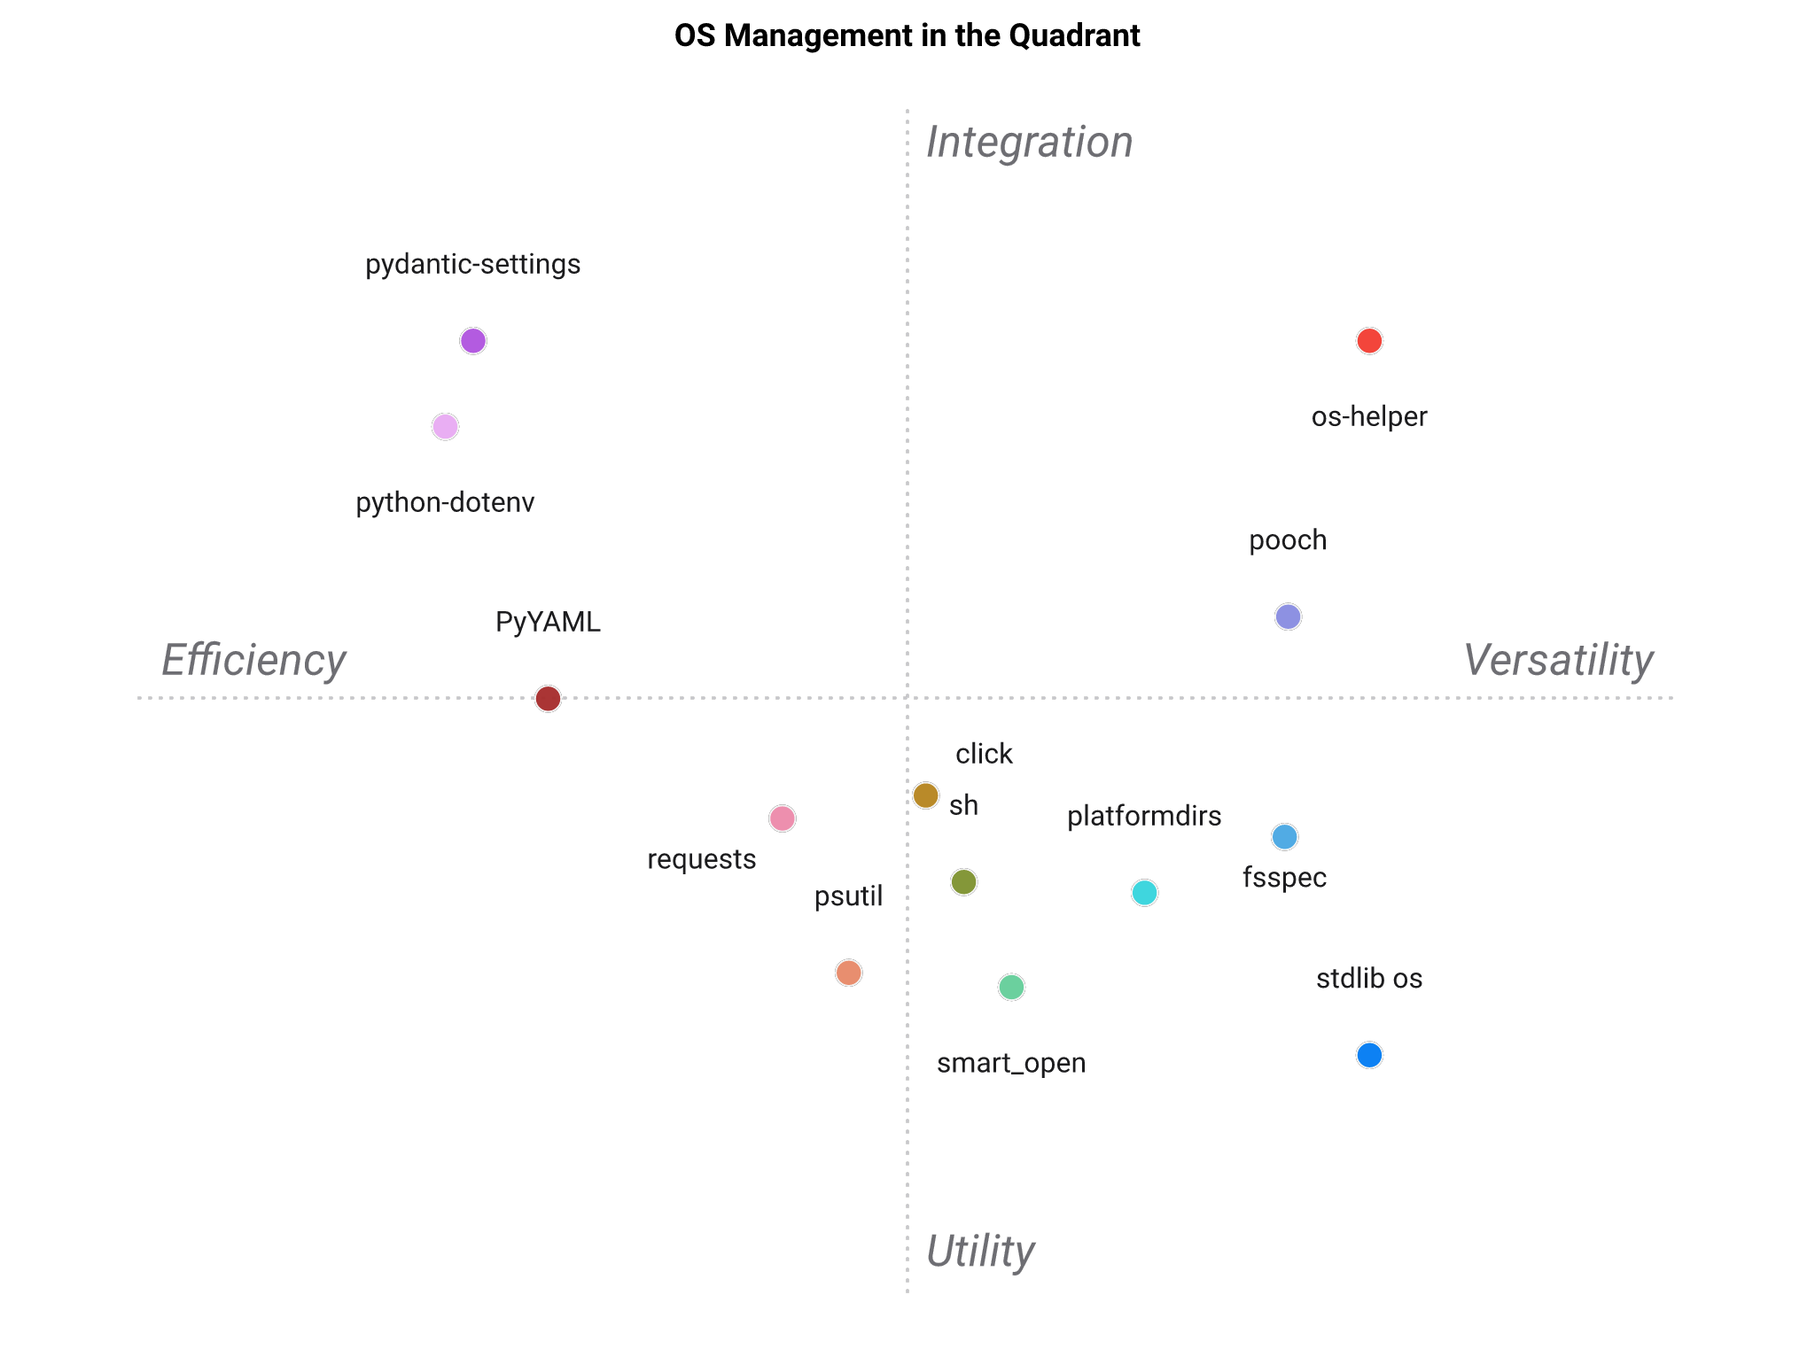
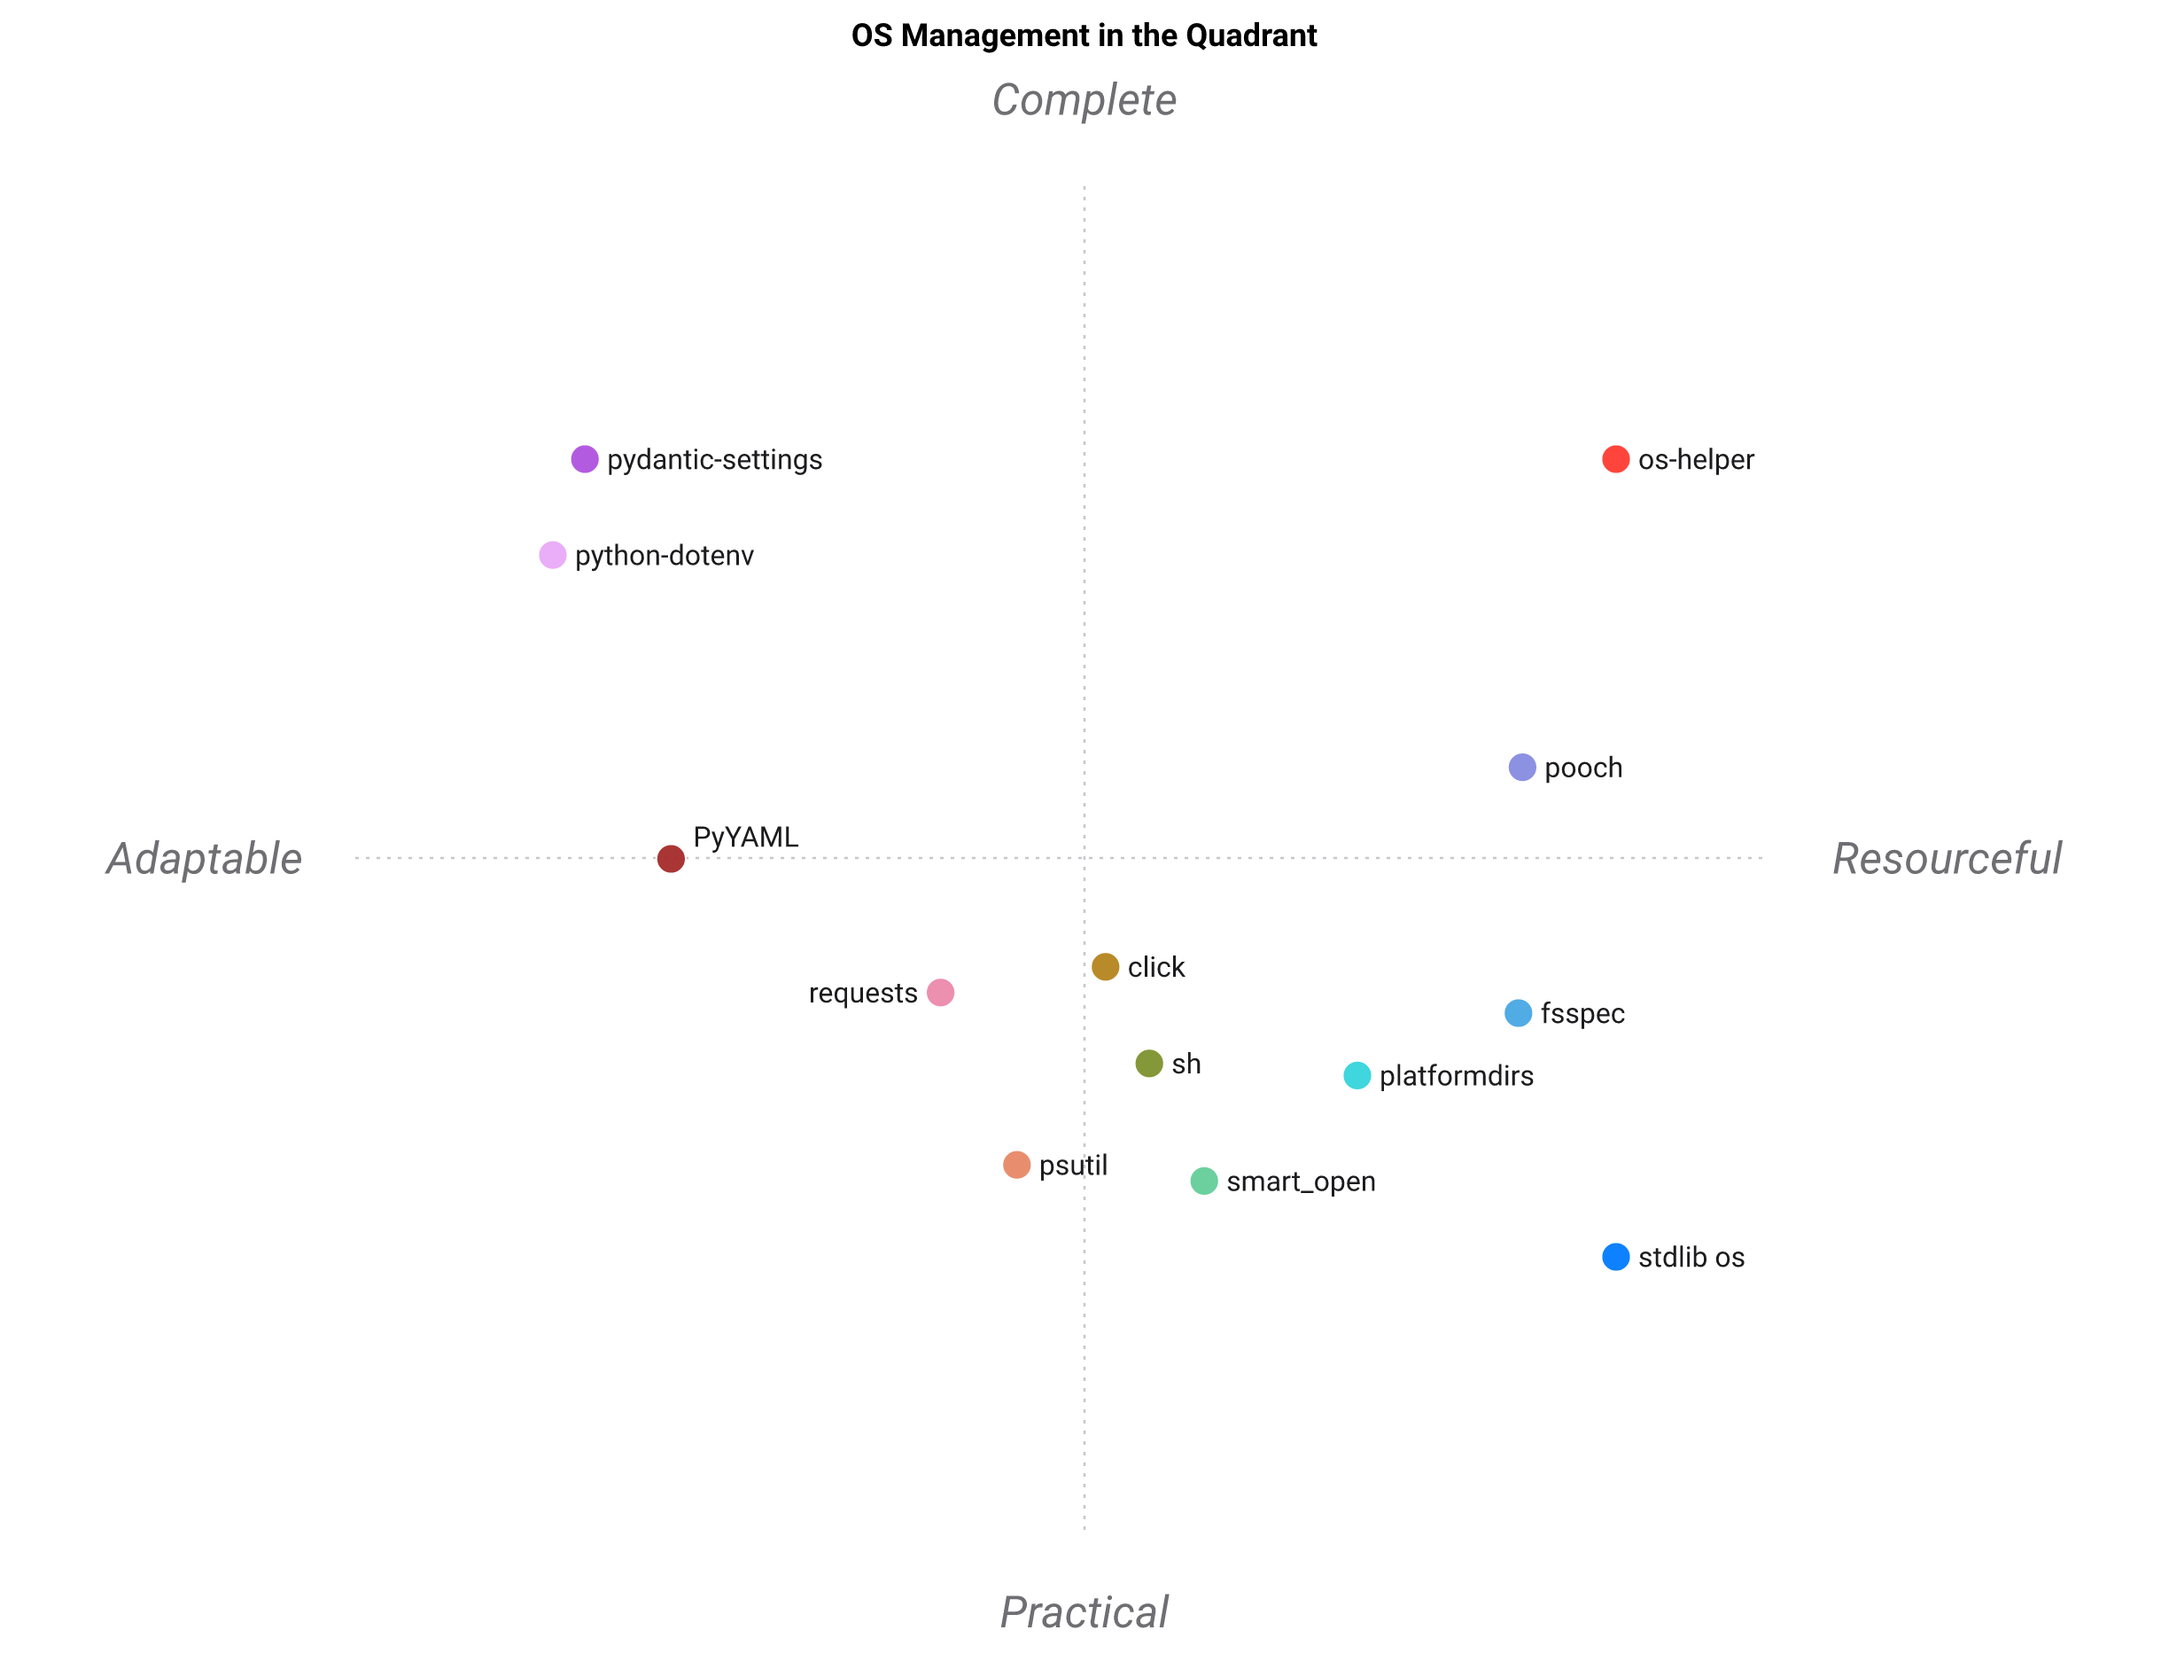
docs: regenerate LANDSCAPE/PAYSAGE positioning figures
Rerun via gen_landscape.py against the current standpoint (Vega retired,
SVG+resvg_py rasterisation pipeline).

diff --git a/PAYSAGE.md b/PAYSAGE.md
@@ -40,7 +40,7 @@ Représentation 2D du tableau ci-dessus.
 
 ![Carte de positionnement](https://raw.githubusercontent.com/warith-harchaoui/os-helper/main/assets/paysage.png)
 
-La carte est un résumé en 2D des 8 critères : à lire comme une forme, pas comme un classement. « os-helper » se situe dans le coin en haut à droite. Les axes se lisent **Horizontal — Rapidité ↔ Polyvalence** et **Vertical — Précision ↔ Intégration**.
+La carte est un résumé en 2D des 8 critères : à lire comme une forme, pas comme un classement. « os-helper » se situe dans le coin en haut à droite. Les axes se lisent **Horizontal — Efficacité ↔ Adaptabilité** et **Vertical — Pragmatisme ↔ Intégrité**.
 <!-- FIGURE:END -->
 
 ## Positionnement

diff --git a/LANDSCAPE.md b/LANDSCAPE.md
@@ -39,7 +39,7 @@ the score just reflects fit to *this* niche.
 
 ![Positioning map](https://raw.githubusercontent.com/warith-harchaoui/os-helper/main/assets/landscape.png)
 
-The map is a 2-D summary of the eight criteria, so read it as a shape, not a scoreboard. `os-helper` is at the top-right corner. The axes read **Horizontal — Efficiency ↔ Versatility** and **Vertical — Utility ↔ Integration**.
+The map is a 2-D summary of the eight criteria, so read it as a shape, not a scoreboard. `os-helper` is at the top-right corner. The axes read **Horizontal — Adaptable ↔ Resourceful** and **Vertical — Practical ↔ Complete**.
 <!-- FIGURE:END -->
 
 ## Positioning
